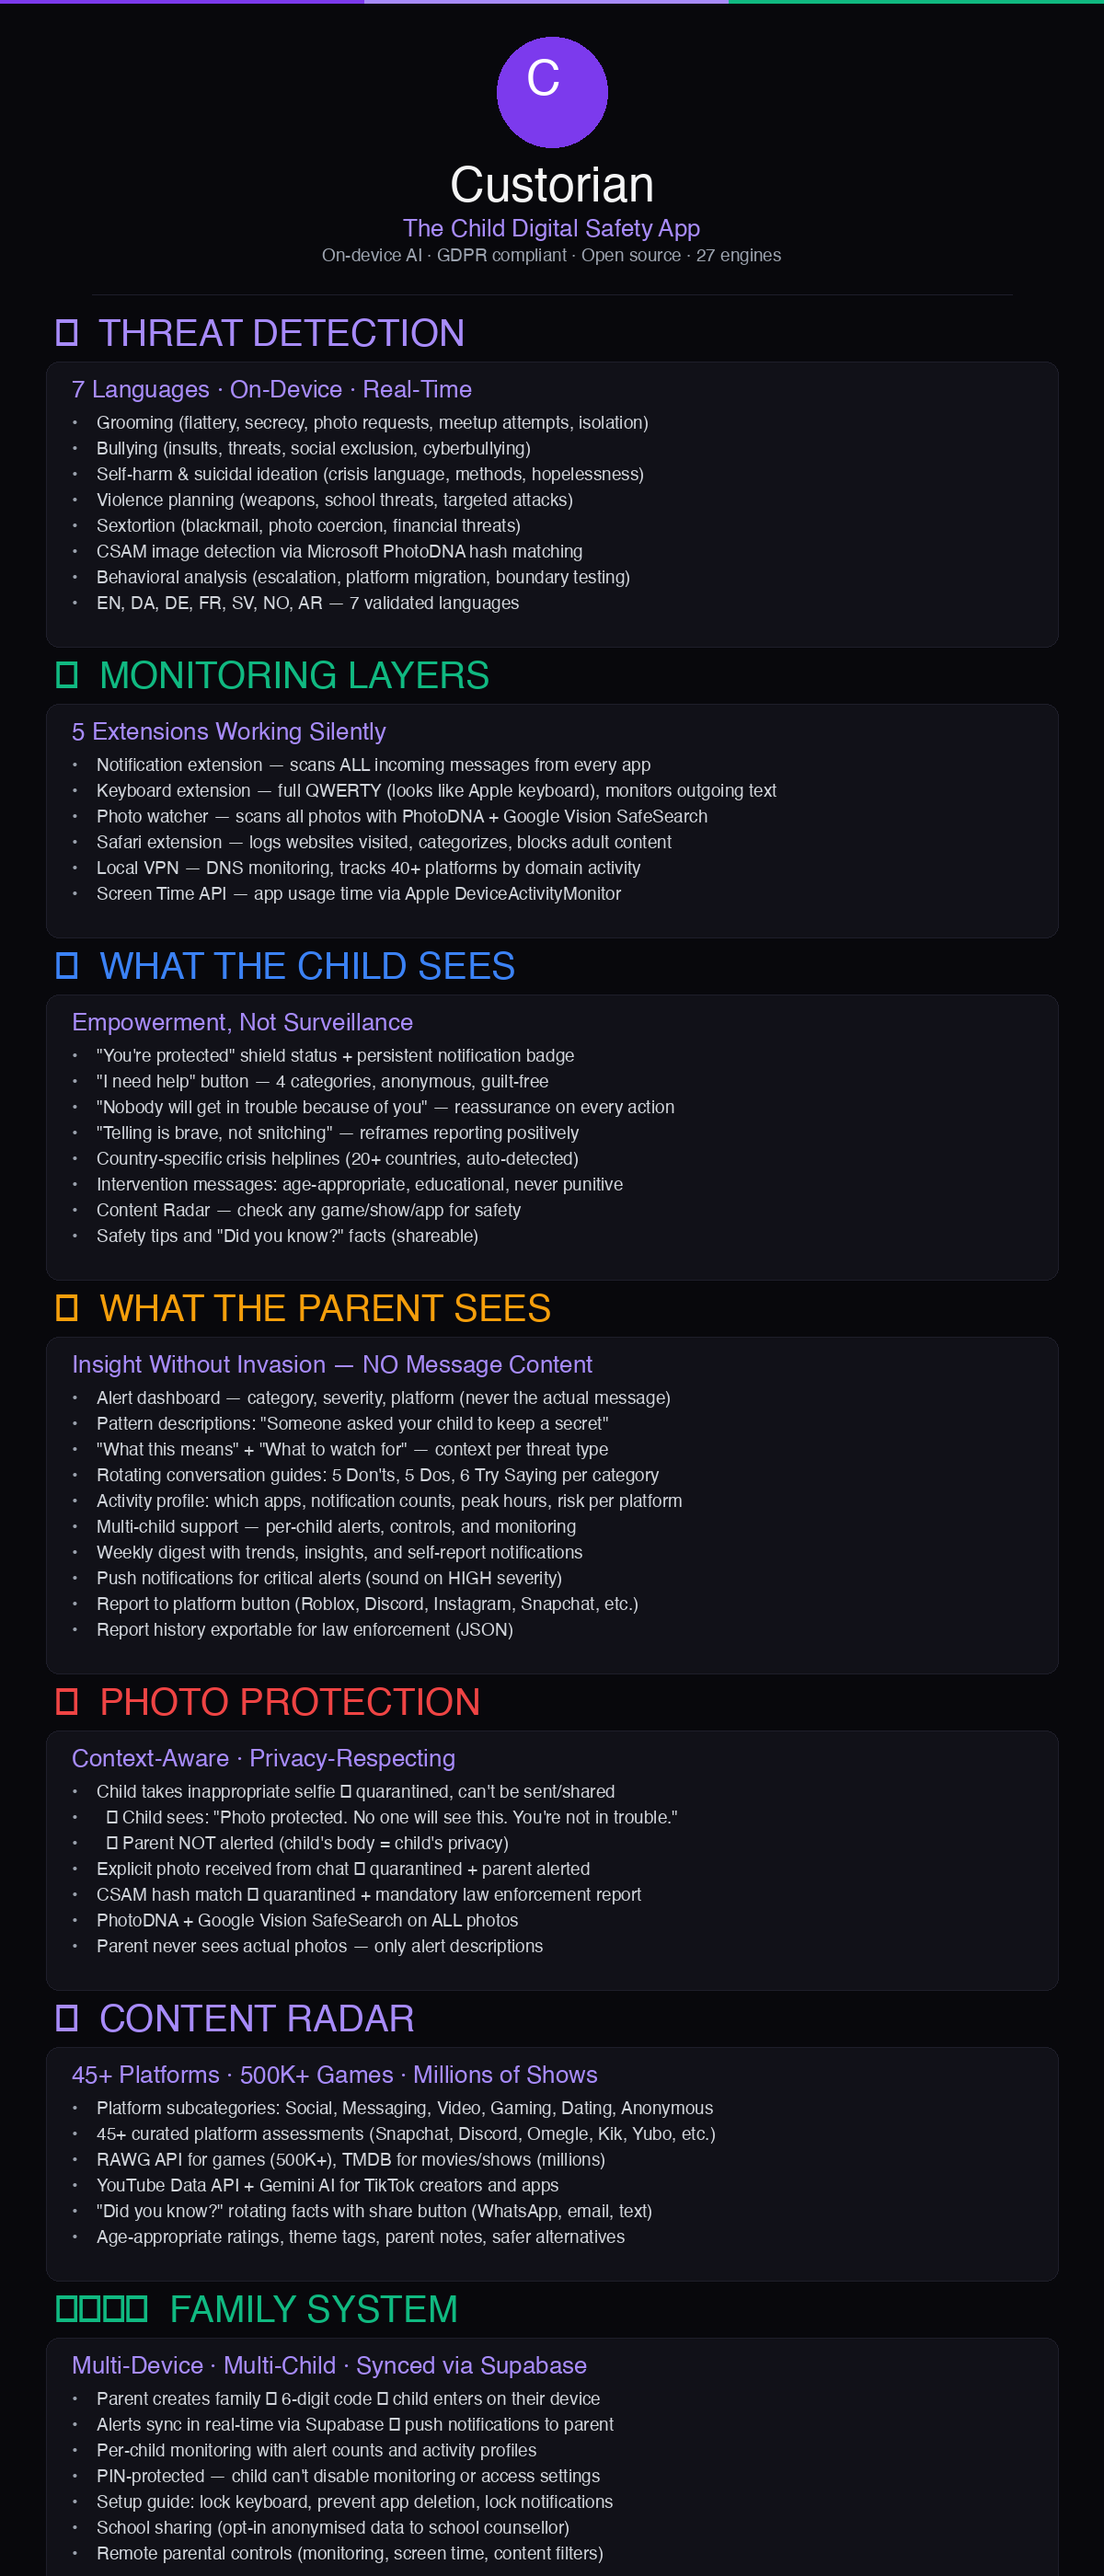
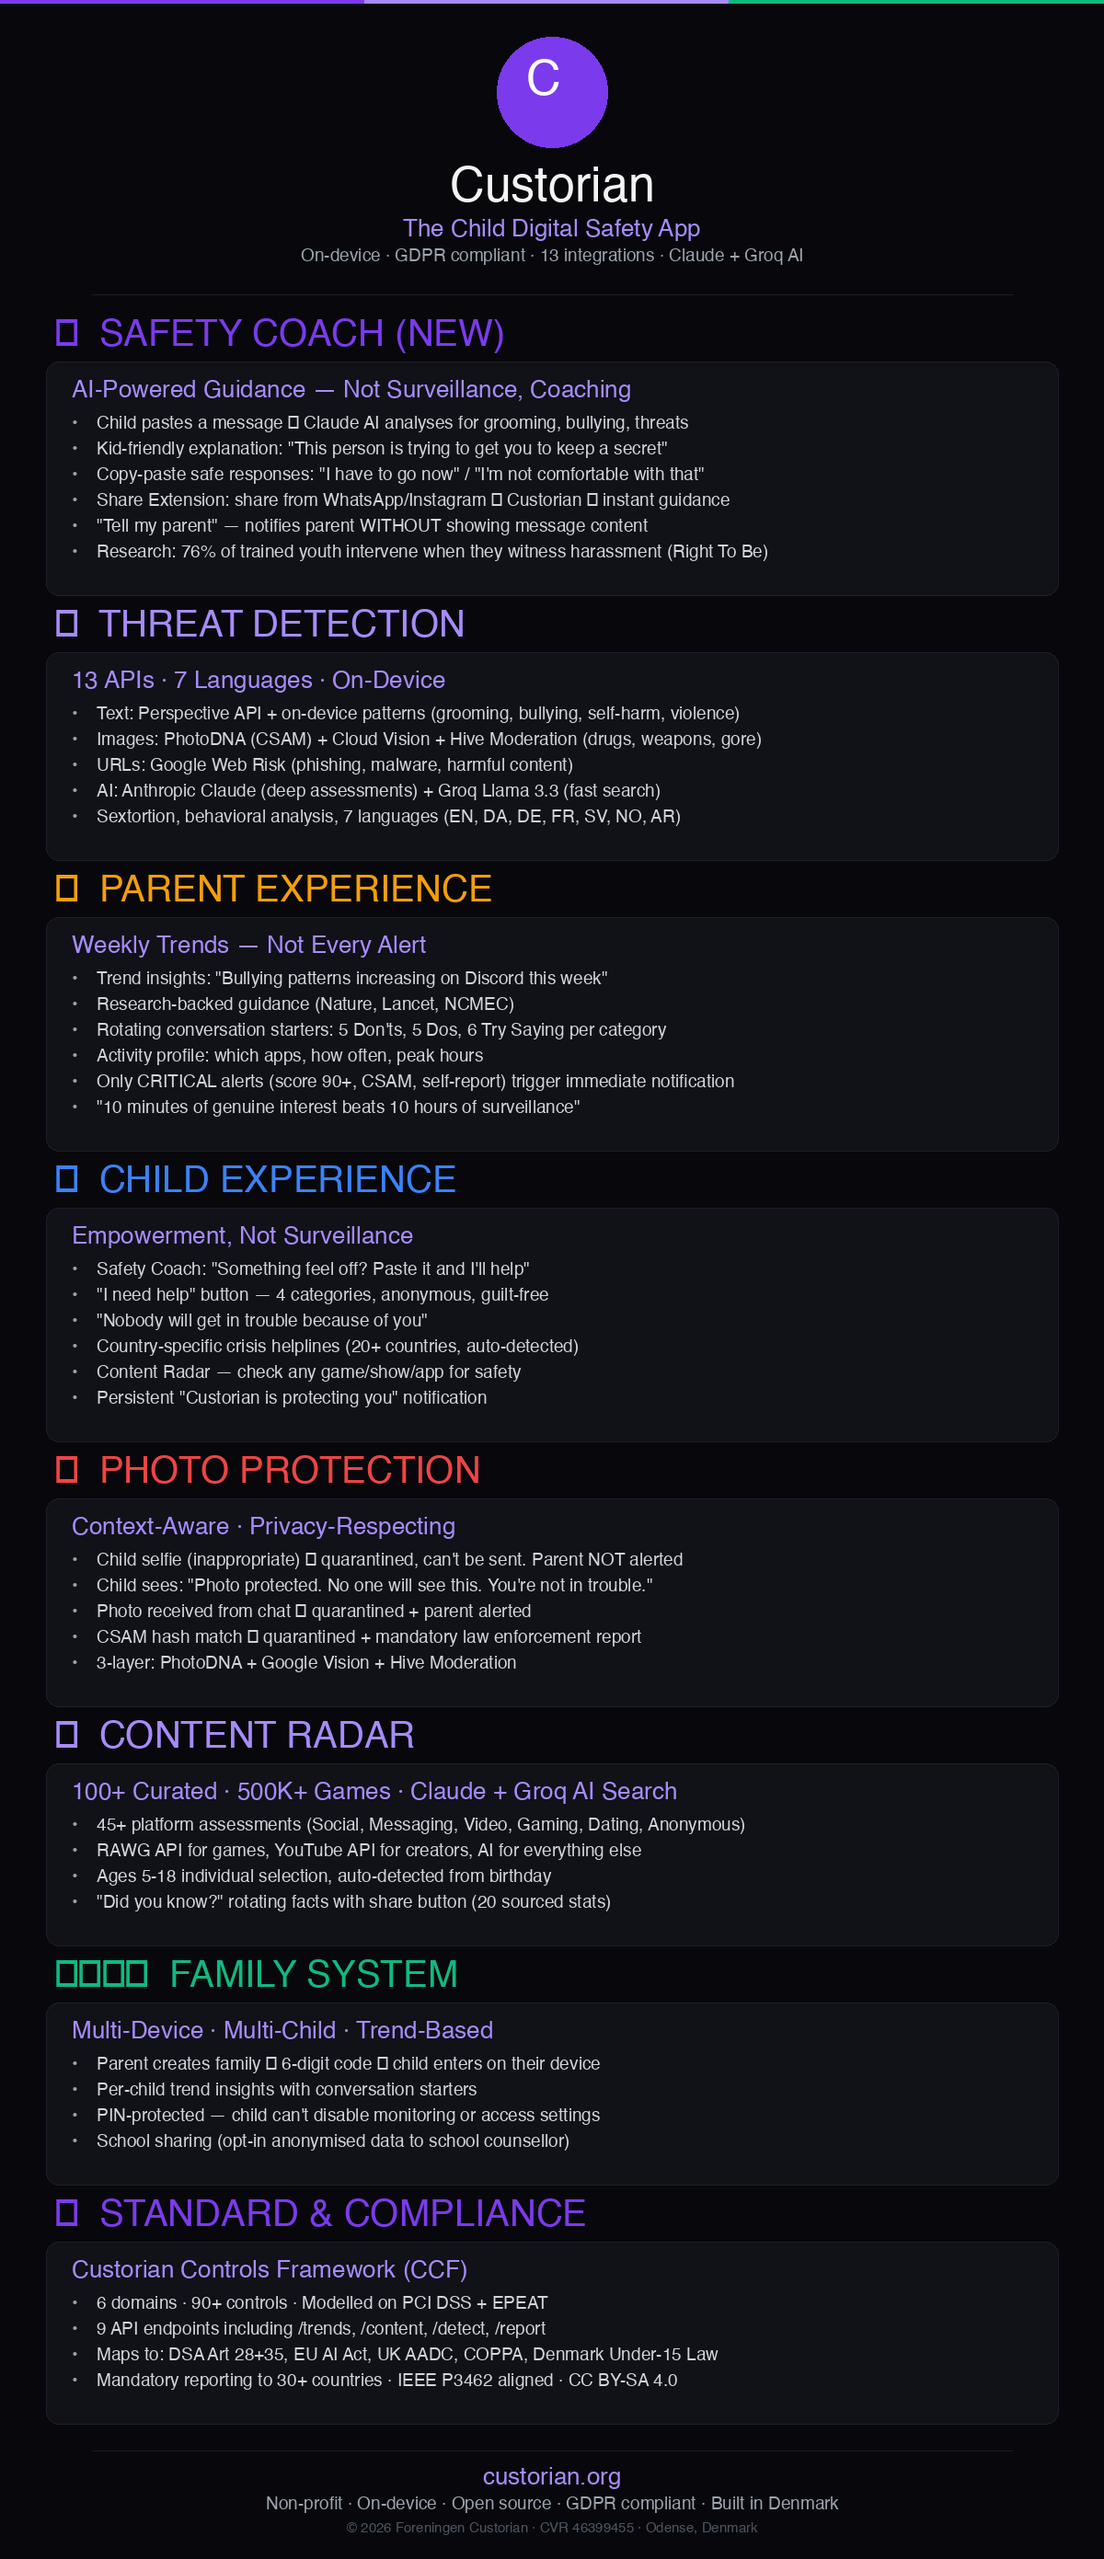
Add Safety Coach section + updated infographic + research citations
Website:
- New "Safety Coach" section: "Not surveillance. Coaching."
- How it works + what the child sees (mock UI)
- Research: Right To Be bystander training (76% intervention rate)
- Research: Kidpower safety-skills evaluation (ScienceDirect)

Infographic: updated with Safety Coach as top feature, 13 APIs, trend-based parent experience

Changed region(s): [[0.0308, 0.0618, 0.7092, 1.0]]

diff --git a/index.html b/index.html
@@ -617,6 +617,47 @@ footer{padding:60px 48px 40px;border-top:1px solid var(--border);position:relati
 
 <div style="height:1px;background:var(--border);max-width:1100px;margin:0 auto"></div>
 
+<!-- SAFETY COACH -->
+<section>
+  <div class="section-content">
+    <div class="reveal">
+      <div class="label">Safety Coach</div>
+      <h2 class="section-title">Not surveillance. Coaching.</h2>
+      <p class="section-desc">When something feels off online, children need guidance — not just detection. Custorian's Safety Coach is an AI-powered assistant that helps children understand what's happening and what to do about it.</p>
+    </div>
+
+    <div style="display:grid;grid-template-columns:1fr 1fr;gap:24px;margin-top:48px" class="reveal">
+      <div style="background:var(--bg2);border:1px solid var(--border);border-radius:16px;padding:32px">
+        <div style="font-size:28px;margin-bottom:12px">🟣</div>
+        <h3 style="font-family:'Space Grotesk',sans-serif;font-weight:600;font-size:1rem;margin-bottom:8px">How it works</h3>
+        <p style="font-size:.82rem;color:var(--dim);line-height:1.7">Child receives a message that feels wrong → opens Custorian or taps Share → Custorian → Safety Coach analyses the message using Claude AI → returns a risk assessment, kid-friendly explanation, what to do, and copy-paste safe responses.</p>
+        <div style="margin-top:16px;padding-top:16px;border-top:1px solid var(--border)">
+          <p style="font-size:.72rem;color:var(--mute);line-height:1.6"><strong style="color:var(--dim)">Privacy:</strong> Messages are analysed by AI and never stored. Parents are notified that the child used the Safety Coach — but never see the message content.</p>
+        </div>
+      </div>
+
+      <div style="background:var(--bg2);border:1px solid var(--border);border-radius:16px;padding:32px">
+        <div style="font-size:28px;margin-bottom:12px">💬</div>
+        <h3 style="font-family:'Space Grotesk',sans-serif;font-weight:600;font-size:1rem;margin-bottom:8px">What the child sees</h3>
+        <div style="background:rgba(167,139,250,.05);border-radius:12px;padding:16px;margin-bottom:12px;border:1px solid rgba(167,139,250,.1)">
+          <p style="font-size:.75rem;color:var(--accent);font-weight:600;margin-bottom:6px">🚨 This is not okay</p>
+          <p style="font-size:.72rem;color:var(--dim);line-height:1.5;margin-bottom:8px">This person is trying to get you to keep a secret from your parents. That's called grooming and it's never your fault.</p>
+          <p style="font-size:.68rem;color:var(--mute);margin-bottom:4px">You can say:</p>
+          <p style="font-size:.72rem;color:var(--accent);font-style:italic">"I have to go now."</p>
+          <p style="font-size:.72rem;color:var(--accent);font-style:italic">"I'm not comfortable with that."</p>
+        </div>
+        <p style="font-size:.7rem;color:var(--mute);line-height:1.5">Copy-paste responses. Block guidance. Option to tell a parent — without the message being shared.</p>
+      </div>
+    </div>
+
+    <div class="legal-note reveal" style="margin-top:24px">
+      <p><strong>Research basis:</strong> Bystander intervention training shows 76% of trained youth intervene when they witness harassment (<a href="https://righttobe.org/training/bystander-intervention-training/" target="_blank" style="color:var(--accent)">Right To Be, 2024</a>). The Kidpower Everyday Safety-Skills Program demonstrates that children trained in safety response skills are significantly more likely to seek help and set boundaries (<a href="https://www.sciencedirect.com/science/article/pii/S0190740914002187" target="_blank" style="color:var(--accent)">ScienceDirect</a>). Custorian's Safety Coach applies these principles digitally — coaching children to recognise threats and respond safely in real time.</p>
+    </div>
+  </div>
+</section>
+
+<div style="height:1px;background:var(--border);max-width:1100px;margin:0 auto"></div>
+
 <!-- FOR PLATFORMS — certification pathway -->
 <section id="adopt">
   <div class="section-content">
